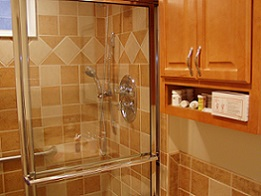
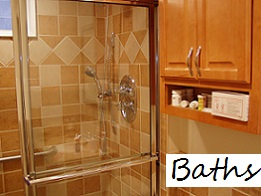
change header color add baths

Changed region(s): [[0.613, 0.7653, 1.0, 0.9796]]

diff --git a/app/assets/stylesheets/custom.css.scss b/app/assets/stylesheets/custom.css.scss
@@ -1,4 +1,5 @@
 $navbarText: #000;
+$navbarLinkColor: #000;
 @import "bootstrap";
 
 /* universal rules to be applied to all static sheets */
@@ -125,6 +126,10 @@ footer ul li {
     border: 0px solid #000;
     padding: 0px;
     text-align: left;
+}
+
+navbar {
+    text-color: #000;
 }
 
 
